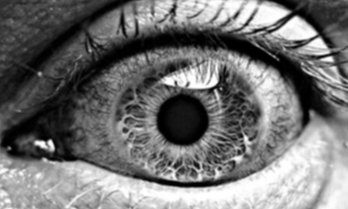
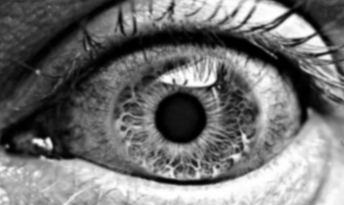
gaussian_blur-2

diff --git a/Python Code/Assignments/guassian_blur/gaussian_blur_example.py b/Python Code/Assignments/guassian_blur/gaussian_blur_example.py
@@ -2,17 +2,4 @@ from Blur import Gaussian_blur
 
 gb = Gaussian_blur()
 
-gb.set_gf([[0.07511361, 0.12384141, 0.07511361],
-        [0.12384141, 0.20417996, 0.12384141],
-        [0.07511361, 0.12384141, 0.07511361]])
-gb.blur('data/input.png', 'data/output_1.png')
-gb.set_gf([[-1,0,1],[-1,0,1],[-1,0,1]])
-gb.blur('data/input.png', 'data/output_2.png')
-gb.set_gf([[1,1,1],[0,0,0],[-1,-1,-1]])
-gb.blur('data/input.png', 'data/output_3.png')
-gb.set_gf([[-1,-1,-1],[0,0,0],[1,1,1]])
-gb.blur('data/input.png', 'data/output_4.png')
-gb.set_gf([[-1,-1,-1],[0,0,0],[1,1,1]])
-gb.blur('data/input.png', 'data/output_4.png')
-gb.set_gf([[1/9,1/9,1/9],[1/9,1/9,1/9],[1/9,1/9,1/9]])
-gb.blur('data/input.png', 'data/output_5.png')
+gb.blur('data/input.png', 'data/output_1.png', 1)

diff --git a/Python Code/Assignments/guassian_blur/Blur/Blur.py b/Python Code/Assignments/guassian_blur/Blur/Blur.py
@@ -6,7 +6,7 @@ class Gaussian_blur:
     def __init__(self):
         self.gf = [[1/9,1/9,1/9],[1/9,1/9,1/9],[1/9,1/9,1/9]]
 
-    def gaussian_kernal(size, sigma):
+    def gaussian_kernal(self, size, sigma):
         func = lambda x, y : (1/(2*np.pi*sigma**2)) * np.exp(-((x-(size-1)/2)**2 + (y-(size-1)/2)**2) / (2*sigma**2))
         kernal = np.zeros((size, size))
         for i in range(size):
@@ -35,6 +35,8 @@ class Gaussian_blur:
 
     def blur(self, path, to_path, sigma):
         self.to_path = to_path
+        kernel_size = 2 * int(np.ceil(3 * sigma)) + 1
+        self.gf = self.gaussian_kernal(kernel_size, sigma)
         with Image.open(path) as image:
             image_gray = image.convert('L')
             image_matrix = np.array(image_gray)
